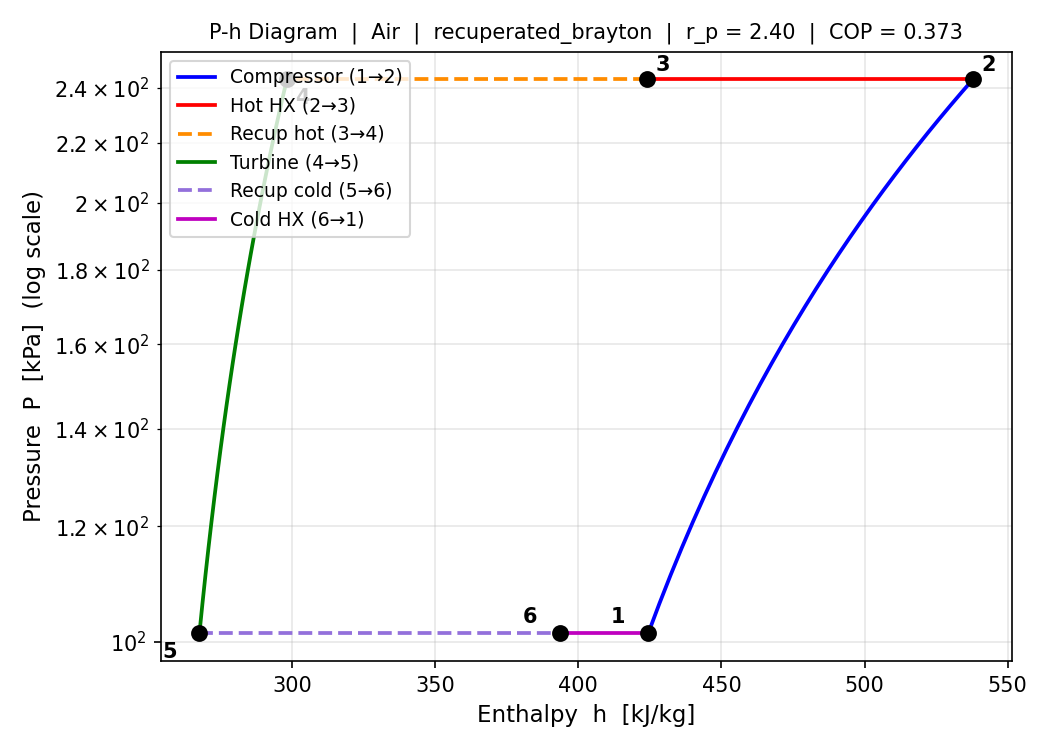
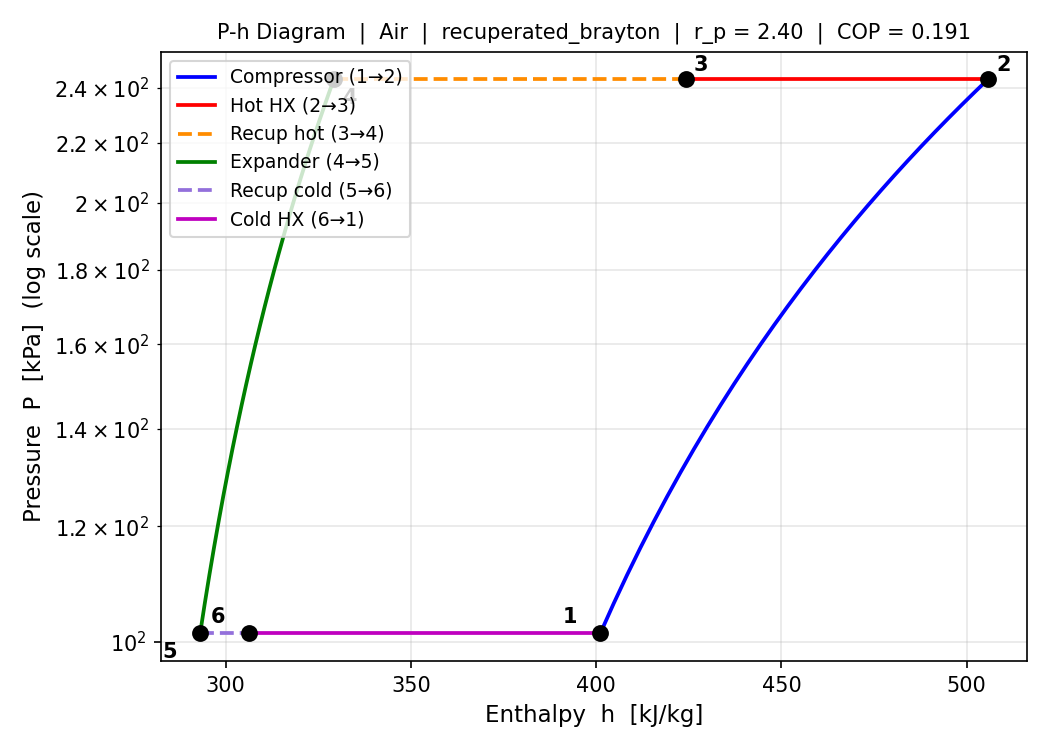
수정이 된 것 같기도.

diff --git a/src/cycle_solver.py b/src/cycle_solver.py
@@ -31,9 +31,9 @@ from properties import state_from_TP
 def make_result_dir(config: dict) -> str:
     cycle = config["cycle"].replace("_brayton", "")
     rp    = f"rp{config['pressure_ratio']:.2f}"
-    Tt    = f"Tt{int(config['turbine']['T_outlet_target'])}K"
+    Tt    = f"Tt{int(config['expander']['T_outlet_target'])}K"
     etac  = f"etac{config['comp']['eta_isen']}"
-    etat  = f"etat{config['turbine']['eta_isen']}"
+    etat  = f"etat{config['expander']['eta_isen']}"
     return os.path.join("results", f"{cycle}__{rp}__{Tt}__{etac}__{etat}")
 
 
@@ -66,14 +66,14 @@ def _find_P_high(cycle_module, config: dict, use_run_cycle: bool) -> float:
     """
     scipy brentq 로 터빈 출구 온도 = T_turbine_outlet 을 만족하는 P_high 탐색.
     """
-    T_target = config["turbine"]["T_outlet_target"]
+    T_target = config["expander"]["T_outlet_target"]
     P_low    = config["P_low"]
 
     def error(P_high):
         if use_run_cycle:
             try:
                 out = cycle_module.run_cycle(config, P_high)
-                T_turb_out = out["T_turbine_outlet"]
+                T_expander_out = out["T_expander_outlet"]
             except ValueError:
                 # 작동 유체가 두 상 영역 진입 등 물리적으로 불가능한 조건
                 # → 터빈 출구가 목표보다 훨씬 낮다고 간주 (P_high 가 너무 큼)
@@ -81,8 +81,8 @@ def _find_P_high(cycle_module, config: dict, use_run_cycle: bool) -> float:
         else:
             results = _run_sequence(cycle_module, config, P_high)
             # Turbine 은 SEQUENCE 의 세 번째 항목 (index 2)
-            T_turb_out = results[2].state_out.T
-        return T_turb_out - T_target
+            T_expander_out = results[2].state_out.T
+        return T_expander_out - T_target
 
     # 탐색 범위: 1.5 atm ~ 20 atm
     P_lo = P_low * 1.5
@@ -91,9 +91,9 @@ def _find_P_high(cycle_module, config: dict, use_run_cycle: bool) -> float:
     if error(P_lo) * error(P_hi) > 0:
         raise ValueError(
             f"brentq: 탐색 범위 [{P_lo/1e3:.1f}, {P_hi/1e3:.1f}] kPa 에서 "
-            f"부호 변환 없음. T_turbine_outlet={T_target:.2f} K 달성 불가능.\n"
-            f"  T_turb at P_lo={error(P_lo)+T_target:.2f} K, "
-            f"T_turb at P_hi={error(P_hi)+T_target:.2f} K"
+            f"부호 변환 없음. T_expander_outlet={T_target:.2f} K 달성 불가능.\n"
+            f"  T_expander at P_lo={error(P_lo)+T_target:.2f} K, "
+            f"T_expander at P_hi={error(P_hi)+T_target:.2f} K"
         )
 
     P_high_sol = brentq(error, P_lo, P_hi, xtol=1.0, rtol=1e-8)
@@ -145,10 +145,10 @@ def solve(config: dict) -> dict:
         cycle_out = cycle_module.run_cycle(config, P_high)
         states            = cycle_out["states"]
         component_results = cycle_out["component_results"]
-        T_turbine_outlet  = cycle_out["T_turbine_outlet"]
+        T_expander_outlet  = cycle_out["T_expander_outlet"]
         Q_cold            = cycle_out["Q_cold"]
         W_compressor      = cycle_out["W_compressor"]
-        W_turbine         = cycle_out["W_turbine"]
+        W_expander         = cycle_out["W_expander"]
         Q_recuperator     = cycle_out.get("Q_recuperator", 0.0)
     else:
         seq_results = _run_sequence(cycle_module, config, P_high)
@@ -158,17 +158,17 @@ def solve(config: dict) -> dict:
             state1,
             seq_results[0].state_out,   # Compressor 출구 → State 2
             seq_results[1].state_out,   # HotHX 출구      → State 3
-            seq_results[2].state_out,   # Turbine 출구    → State 4
+            seq_results[2].state_out,   # Expander 출구    → State 4
         ]
         component_results = seq_results
-        T_turbine_outlet  = states[3].T
+        T_expander_outlet  = states[3].T
         Q_cold            = seq_results[3].Q_dot    # ColdHX, 양수
         W_compressor      = seq_results[0].W_dot    # 양수
-        W_turbine         = -seq_results[2].W_dot   # 음수→양수
+        W_expander         = -seq_results[2].W_dot   # 음수→양수
         Q_recuperator     = 0.0
 
     # 성능 지표
-    W_net = W_compressor - W_turbine
+    W_net = W_compressor - W_expander
     COP   = Q_cold / W_net
 
     # 에너지 평형 검증
@@ -184,10 +184,10 @@ def solve(config: dict) -> dict:
         states           = states,
         state_labels     = cycle_module.STATE_LABELS,
         results          = component_results,
-        T_turbine_outlet = T_turbine_outlet,
+        T_expander_outlet = T_expander_outlet,
         Q_cold           = Q_cold,
         W_compressor     = W_compressor,
-        W_turbine        = W_turbine,
+        W_expander        = W_expander,
         W_net            = W_net,
         COP              = COP,
         Q_recuperator    = Q_recuperator,

diff --git a/visualize.py b/visualize.py
@@ -111,7 +111,7 @@ def _plot_Ts_simple(ax, out: dict, cfg: dict) -> None:
 
     ax.plot(s_c  / 1e3, T_c  - 273.15, "b-", lw=1.8, label="Compressor (1→2)")
     ax.plot(s_hx / 1e3, T_hx - 273.15, "r-", lw=1.8, label="Hot HX (2→3)")
-    ax.plot(s_t  / 1e3, T_t  - 273.15, "g-", lw=1.8, label="Turbine (3→4)")
+    ax.plot(s_t  / 1e3, T_t  - 273.15, "g-", lw=1.8, label="Expander (3→4)")
     ax.plot(s_cx / 1e3, T_cx - 273.15, "m-", lw=1.8, label="Cold HX (4→1)")
 
     offsets = [(-18, 5), (5, 5), (5, 5), (5, -12)]
@@ -136,7 +136,7 @@ def _plot_Ts_recuperated(ax, out: dict, cfg: dict) -> None:
     ax.plot(s_c  / 1e3, T_c  - 273.15, "b-",                 lw=1.8, label="Compressor (1→2)")
     ax.plot(s_hx / 1e3, T_hx - 273.15, "r-",                 lw=1.8, label="Hot HX (2→3)")
     ax.plot(s_rh / 1e3, T_rh - 273.15, color="darkorange",   lw=1.8, label="Recup hot (3→4)", ls="--")
-    ax.plot(s_t  / 1e3, T_t  - 273.15, "g-",                 lw=1.8, label="Turbine (4→5)")
+    ax.plot(s_t  / 1e3, T_t  - 273.15, "g-",                 lw=1.8, label="Expander (4→5)")
     ax.plot(s_rc / 1e3, T_rc - 273.15, color="mediumpurple", lw=1.8, label="Recup cold (5→6)", ls="--")
     ax.plot(s_cx / 1e3, T_cx - 273.15, "m-",                 lw=1.8, label="Cold HX (6→1)")
 
@@ -191,7 +191,7 @@ def _plot_Ph_simple(ax, out: dict, cfg: dict) -> None:
 
     ax.semilogy(h_c  / 1e3, P_c  / 1e3, "b-", lw=1.8, label="Compressor (1→2)")
     ax.semilogy(h_hx / 1e3, P_hx / 1e3, "r-", lw=1.8, label="Hot HX (2→3)")
-    ax.semilogy(h_t  / 1e3, P_t  / 1e3, "g-", lw=1.8, label="Turbine (3→4)")
+    ax.semilogy(h_t  / 1e3, P_t  / 1e3, "g-", lw=1.8, label="Expander (3→4)")
     ax.semilogy(h_cx / 1e3, P_cx / 1e3, "m-", lw=1.8, label="Cold HX (4→1)")
 
     offsets  = [(-18, 5), (4, 4), (4, -12), (-18, -12)]
@@ -223,7 +223,7 @@ def _plot_Ph_recuperated(ax, out: dict, cfg: dict) -> None:
     ax.semilogy(h_c  / 1e3, P_c  / 1e3, "b-",                 lw=1.8, label="Compressor (1→2)")
     ax.semilogy(h_hx / 1e3, P_hx / 1e3, "r-",                 lw=1.8, label="Hot HX (2→3)")
     ax.semilogy(h_rh / 1e3, P_rh / 1e3, color="darkorange",   lw=1.8, label="Recup hot (3→4)", ls="--")
-    ax.semilogy(h_t  / 1e3, P_t  / 1e3, "g-",                 lw=1.8, label="Turbine (4→5)")
+    ax.semilogy(h_t  / 1e3, P_t  / 1e3, "g-",                 lw=1.8, label="Expander (4→5)")
     ax.semilogy(h_rc / 1e3, P_rc / 1e3, color="mediumpurple", lw=1.8, label="Recup cold (5→6)", ls="--")
     ax.semilogy(h_cx / 1e3, P_cx / 1e3, "m-",                 lw=1.8, label="Cold HX (6→1)")
 
@@ -270,7 +270,7 @@ def sweep_rp(cfg_base: dict, save_dir: str,
             rp_vals.append(rp)
             cop_vals.append(out["COP"])
             qc_vals.append(out["Q_cold"] / 1e3)                  # kW
-            Tt_vals.append(out["T_turbine_outlet"] - 273.15)     # °C
+            Tt_vals.append(out["T_expander_outlet"] - 273.15)     # °C
         except Exception:
             pass   # 범위 밖 r_p 는 스킵
 
@@ -278,7 +278,7 @@ def sweep_rp(cfg_base: dict, save_dir: str,
     csv_path = os.path.join(save_dir, "cop_vs_rp.csv")
     with open(csv_path, "w", newline="", encoding="utf-8") as f:
         w = csv.writer(f)
-        w.writerow(["pressure_ratio", "COP", "Q_cold_kW", "T_turb_out_degC"])
+        w.writerow(["pressure_ratio", "COP", "Q_cold_kW", "T_expander_out_degC"])
         for rp, cop, qc, Tt in zip(rp_vals, cop_vals, qc_vals, Tt_vals):
             w.writerow([f"{rp:.4f}", f"{cop:.6f}", f"{qc:.4f}", f"{Tt:.4f}"])
 
@@ -300,8 +300,8 @@ def sweep_rp(cfg_base: dict, save_dir: str,
     axes[2].plot(rp_vals, Tt_vals, "g-", lw=1.8)
     axes[2].axhline(-100, color="gray", ls="--", lw=1, label="T = -100°C")
     axes[2].set_xlabel("Pressure Ratio  r_p  [-]", fontsize=10)
-    axes[2].set_ylabel("Turbine Outlet T  [°C]", fontsize=10)
-    axes[2].set_title("T_turb_out vs Pressure Ratio", fontsize=10)
+    axes[2].set_ylabel("Expander Outlet T  [°C]", fontsize=10)
+    axes[2].set_title("T_expander_out vs Pressure Ratio", fontsize=10)
     axes[2].legend(fontsize=8)
     axes[2].grid(True, alpha=0.3)
 
@@ -323,7 +323,7 @@ def sweep_rp(cfg_base: dict, save_dir: str,
     eps_str = (f"  ε={recup['effectiveness']}" if "effectiveness" in recup else "")
     fig.suptitle(
         f"{cycle_name}  |  η_c={cfg_base['comp']['eta_isen']}"
-        f"  η_t={cfg_base['turbine']['eta_isen']}{eps_str}",
+        f"  η_t={cfg_base['expander']['eta_isen']}{eps_str}",
         fontsize=11)
     fig.tight_layout()
     png_path = os.path.join(save_dir, "cop_vs_rp.png")

diff --git a/main.py b/main.py
@@ -89,7 +89,7 @@ def print_results(cfg: dict, out: dict) -> None:
     print("  Performance:")
     print(f"    Q_cold  (Refrigeration) : {out['Q_cold']/1e3:>8.3f} kW")
     print(f"    W_compressor            : {out['W_compressor']/1e3:>8.3f} kW")
-    print(f"    W_turbine               : {out['W_turbine']/1e3:>8.3f} kW")
+    print(f"    W_expander               : {out['W_expander']/1e3:>8.3f} kW")
     print(f"    W_net                   : {out['W_net']/1e3:>8.3f} kW")
     if out.get("Q_recuperator", 0.0) > 0:
         print(f"    Q_recuperator           : {out['Q_recuperator']/1e3:>8.3f} kW")
@@ -131,7 +131,7 @@ def save_results(cfg: dict, out: dict) -> None:
         w.writerow(["P_high",         f"{out['P_high']:.2f}",              "Pa"])
         w.writerow(["Q_cold",         f"{out['Q_cold']:.4f}",              "W"])
         w.writerow(["W_compressor",   f"{out['W_compressor']:.4f}",        "W"])
-        w.writerow(["W_turbine",      f"{out['W_turbine']:.4f}",           "W"])
+        w.writerow(["W_expander",      f"{out['W_expander']:.4f}",           "W"])
         w.writerow(["W_net",          f"{out['W_net']:.4f}",               "W"])
         w.writerow(["COP",            f"{out['COP']:.6f}",                 "-"])
         if out.get("Q_recuperator", 0.0) > 0:

diff --git a/src/cycles/simple_brayton.py b/src/cycles/simple_brayton.py
@@ -20,7 +20,7 @@ import sys
 import os
 sys.path.insert(0, os.path.join(os.path.dirname(__file__), ".."))
 
-from components import compressor, turbine
+from components import compressor, expander
 from components import hx_heat_rejection, hx_heat_absorption
 
 
@@ -32,8 +32,8 @@ def _hot_hx_kwargs(config: dict, state_in, P_high: float) -> dict:
     return dict(T_out=config["hx_aftercooler"]["T_outlet"], m_dot=config["mass_flow"])
 
 
-def _turbine_kwargs(config: dict, state_in, P_high: float) -> dict:
-    return dict(P_out=config["P_low"], eta_t=config["turbine"]["eta_isen"], m_dot=config["mass_flow"])
+def _expander_kwargs(config: dict, state_in, P_high: float) -> dict:
+    return dict(P_out=config["P_low"], eta_t=config["expander"]["eta_isen"], m_dot=config["mass_flow"])
 
 
 def _cold_hx_kwargs(config: dict, state_in, P_high: float) -> dict:
@@ -52,6 +52,6 @@ STATE_LABELS = [
 SEQUENCE = [
     ("Compressor", compressor.run,          _compressor_kwargs),
     ("HotHX",      hx_heat_rejection.run,   _hot_hx_kwargs),
-    ("Turbine",    turbine.run,             _turbine_kwargs),
+    ("Expander",    expander.run,             _expander_kwargs),
     ("ColdHX",     hx_heat_absorption.run,  _cold_hx_kwargs),
 ]

diff --git a/src/components/expander.py b/src/components/expander.py
@@ -39,16 +39,16 @@ def run(state_in: ThermodynamicState,
     """
     # 등엔트로피 출구 (이상, ideal)
     state_out_s = state_from_sP(state_in.s, P_out,
-                                fluid=state_in.fluid, label="TurbineOut_s")
+                                fluid=state_in.fluid, label="ExpanderOut_s")
 
     # 실제 출구 엔탈피
     h_out = state_in.h - eta_t * (state_in.h - state_out_s.h)
 
     # 실제 출구 상태
     state_out = state_from_hP(h_out, P_out,
-                               fluid=state_in.fluid, label="TurbineOut")
+                               fluid=state_in.fluid, label="ExpanderOut")
 
     W_dot = m_dot * (state_out.h - state_in.h)   # 음수
 
     return ComponentResult(state_out=state_out, W_dot=W_dot, Q_dot=0.0,
-                           label="Turbine")
+                           label="Expander")
